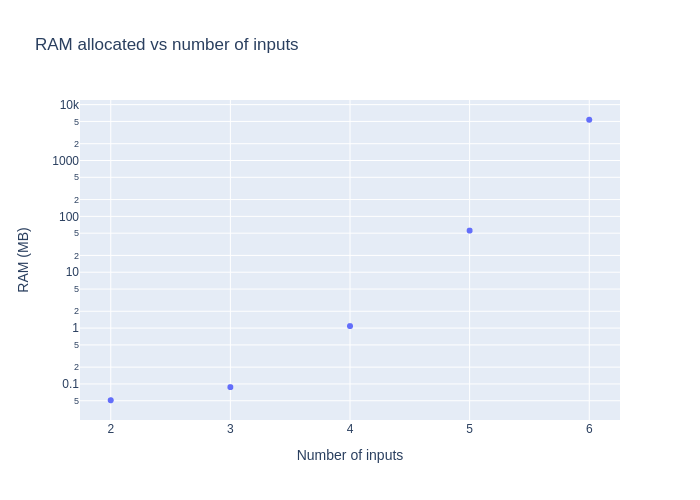
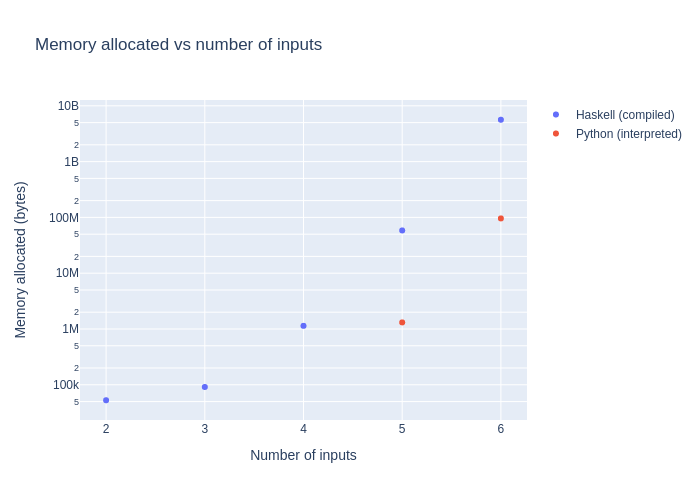
Python memory profiling

diff --git a/tests/zurg_profile.py b/tests/zurg_profile.py
@@ -1,3 +1,4 @@
+import psutil
 import re
 import sys
 sys.path.append("..")
@@ -5,7 +6,7 @@ import zurg
 
 from glob import glob
 from math import inf
-from os import remove, system
+from os import getpid, remove, system
 from plotly.graph_objects import Figure, Scatter
 from time import time
 
@@ -14,7 +15,7 @@ def haskell_profiling():
     inputs = {2: "A,B", 3: "A,B,C", 4: "A,B,C,D", 5: "A,B,C,D,E", 6: "A,B,C,D,E,F"}
     seconds_interpreted = {}
     seconds_compiled = {}
-    ram_used = {}
+    memory_used = {}
 
     for key, value in inputs.items():
         toys = ["module Toys where",
@@ -42,47 +43,51 @@ def haskell_profiling():
             lines = f.readlines()
         for line in lines:
             if "total alloc" in line:
-                ram_used[key] = int(re.sub('[^0-9]','', line)) / (1024 * 1024)
+                memory_used[key] = int(re.sub('[^0-9]','', line))
                 break
 
     files = glob("*.hi") + glob("*.o") + ["Toys.hs"] + ["Zurg"] + ["Zurg.prof"]
     for file in files:
         remove(file)
 
-    return seconds_interpreted, seconds_compiled, ram_used
+    return seconds_interpreted, seconds_compiled, memory_used
 
 
-def python_interpreted():
-    num_solutions = {}
-    seconds_taken = {}
+def python_profiling():
+    seconds_interpreted = {}
+    memory_used = {}
 
     for i in range(2, 7):
+        process = psutil.Process(getpid())
+        initial = process.memory_info().vms
         start = time()
         solutions = zurg.two_cross(range(1, i+1), [], inf, [])
         end = time()
+        final = process.memory_info().vms
 
-        num_solutions[i] = len(solutions)
-        seconds_taken[i] = end - start
+        seconds_interpreted[i] = end - start
+        memory_used[i] = (final - initial)
 
-    return seconds_taken
+    return seconds_interpreted, memory_used
 
 
 if __name__ == "__main__":
-    hs_int, hs_comp, hs_ram = haskell_profiling()
-    py_int = python_interpreted()
+    hs_int, hs_comp, hs_mem = haskell_profiling()
+    py_int, py_mem = python_profiling()
 
     fig = Figure()
-    fig.add_trace(Scatter(x=list(hs_int.keys()), y=list(hs_int.values()), mode='markers', name='haskell (interpreted)'))
-    fig.add_trace(Scatter(x=list(hs_comp.keys()), y=list(hs_comp.values()), mode='markers', name='haskell (compiled)'))
-    fig.add_trace(Scatter(x=list(py_int.keys()), y=list(py_int.values()), mode='markers', name='python (interpreted)'))
+    fig.add_trace(Scatter(x=list(hs_int.keys()), y=list(hs_int.values()), mode='markers', name='Haskell (interpreted)'))
+    fig.add_trace(Scatter(x=list(hs_comp.keys()), y=list(hs_comp.values()), mode='markers', name='Haskell (compiled)'))
+    fig.add_trace(Scatter(x=list(py_int.keys()), y=list(py_int.values()), mode='markers', name='Python (interpreted)'))
     fig.update_yaxes(title='Runtime (seconds)', type='log')
     fig.update_xaxes(title='Number of inputs')
     fig.update_layout(title='Runtime vs number of inputs')
     fig.write_image("../docs/runtime.png")
 
     fig = Figure()
-    fig.add_trace(Scatter(x=list(hs_ram.keys()), y=list(hs_ram.values()), mode='markers', name='haskell (compiled)'))
-    fig.update_yaxes(title='RAM (MB)', type='log')
+    fig.add_trace(Scatter(x=list(hs_mem.keys()), y=list(hs_mem.values()), mode='markers', name='Haskell (compiled)'))
+    fig.add_trace(Scatter(x=list(py_mem.keys()), y=list(py_mem.values()), mode='markers', name='Python (interpreted)'))
+    fig.update_yaxes(title='Memory allocated (bytes)', type='log')
     fig.update_xaxes(title='Number of inputs')
-    fig.update_layout(title='RAM allocated vs number of inputs')
+    fig.update_layout(title='Memory allocated vs number of inputs')
     fig.write_image("../docs/ram.png")

diff --git a/README.md b/README.md
@@ -4,6 +4,7 @@
 
 "Escape from Zurg" is a puzzle described in [Escape from Zurg: An Exercise in Logic Programming](https://web.engr.oregonstate.edu/~erwig/papers/Zurg_JFP04.pdf) in which the author compares two solutions, one in Prolog and one in Haskell, to see if functional programming languages are effective for search problems. Inspire by this, my project compares the author's Haskell solution to my own Python solution in terms of language features, readability, and performance. Python has a mix of imperative, functional, and OOP features that make for an interesting comparison.
 
+&nbsp;
 
 ## Implementation
 
@@ -13,17 +14,14 @@ In `zurg.py`, I implemented a depth-first search using indirect recursion. `zurg
 
 My solution is generalized and is not confined to the exact "Escape from Zurg" puzzle parameters. Calling `two_cross()` directly, instead of calling `zurg()`, allows you to input custom search parameters. For an example of this, see `TestTwoCross::test_recursive_case_with_time_limit` in `zurg_test.py`. Below is a chart that illustrates this test case visually. Red nodes represent time limit terminations while green nodes represent solutions found.
 
-<center><img src="docs/example.png" alt="example" width="550"/></center>
+<center><img src="docs/example.png" alt="example" width="500"/></center>
+
 <div style="page-break-after: always;"></div>
 
 
 ## Testing
 
-To run the "Escape from Zurg" solution, call `make run`. To run the full test suite, run `make test`. To run the tests follow by the solution, run `make`. To run profiling, call `make profile`.
-
-Dependencies
-* `pytest` (requires `python` >= 3.7)
-* `plotly` (and dependencies)
+To run the "Escape from Zurg" solution, call `make run`. To run the full test suite, run `make test`. To run the tests follow by the solution, run `make`. To run profiling, call `make profile`. Most of the available `make` commands have dependencies, especially `profile`.
 
 Within `zurg_test.py` there are system, integration, and unit tests. The `TestZurg` class contains system tests that ensure the solution matches the expected output, derived from [ZurgDirect.hs](https://web.engr.oregonstate.edu/~erwig/zurg/). These are black box tests, as they do not require knowledge of the implementation, just knowledge of the output format.
 
@@ -32,6 +30,8 @@ The `TestTwoCross` and `TestOneReturns` classes contain a mixture of integration
 The tests in `TestTwoCross` and `TestOneReturns` are gray box tests. They only need knowledge of the output format for the test cases but need implementation knowledge to distinguish between integration and unit tests.
 
 `zurg_profiling.py` profiles the RAM usage and runtime (Haskell vs Python, interpreted vs compiled) as the input size (number of toys) increases. To accentuate runtime trends, the time limit is set high enough to make every solution valid. The results are discussed in the "Conclusions" section.
+
+&nbsp;
 
 
 ## Listing
